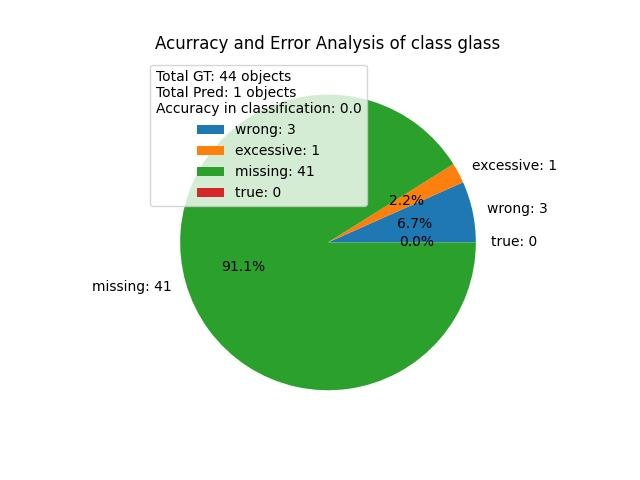
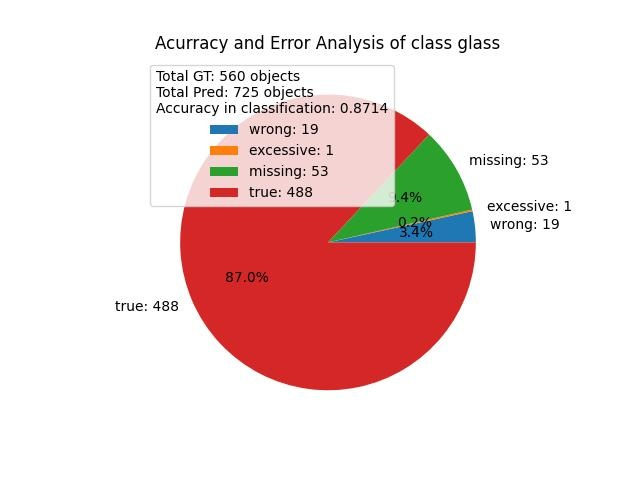
[model] fix evaluation bugs

Changed region(s): [[0.1562, 0.125, 0.875, 0.8125]]

diff --git a/evaluation/predict_dataset.py b/evaluation/predict_dataset.py
@@ -208,6 +208,10 @@ class PredictDataset():
     def get_accuracy(self, all_results:dict):
         precision_list = []
         for class_name in all_results.keys():
+            if all_results[class_name]['num_gt'] == 0:
+                precision_list.append(1)
+                continue
+
             class_precision = all_results[class_name]['num_true']/all_results[class_name]['num_gt']
             precision_list.append(class_precision)
         return round(np.average(precision_list), 4)
@@ -256,7 +260,10 @@ class PredictDataset():
                     "true: {}".format(num_true)]
             errs = np.array([num_wrong_pred, num_excessive, num_missing, num_true])
 
-            cls_acc = round((all_results[class_name]['num_true'])/(all_results[class_name]['num_gt']), 4)
+            if all_results[class_name]['num_gt'] == 0:
+                cls_acc = 1
+            else:
+                cls_acc = round((all_results[class_name]['num_true'])/(all_results[class_name]['num_gt']), 4)
 
             if num_wrong_pred!=0 or num_excessive!=0 or num_missing!=0:
                 plt.title("Acurracy and Error Analysis of class {}".format(class_name))

diff --git a/app.py b/app.py
@@ -4,7 +4,6 @@ from utils.handle_path import PathHandler
 from utils.handle_dataset import DatasetHandler
 from utils.handle_model import ModelHandler
 from utils.handle_status import StatusHandler
-from evaluation.predict_dataset import PredictDataset
 from data_augment.augment_dataset import DatasetAugment
 from damo_yolo2.tools.demo import InferRunner
 from FastSAM2.fastsam_inference import FastFAM_Infer
@@ -536,6 +535,7 @@ def start_evaluate():
     model_name = request.form.get('model_name')
     predict_dataset = PredictDataset(dataset_name, model_name)
     predict_dataset.run_pred()
+    dataset_handler.labelme_to_coco(dataset_name)
     predict_dataset.eval_results(plot=True)
     return "Done Evaluation"
 
